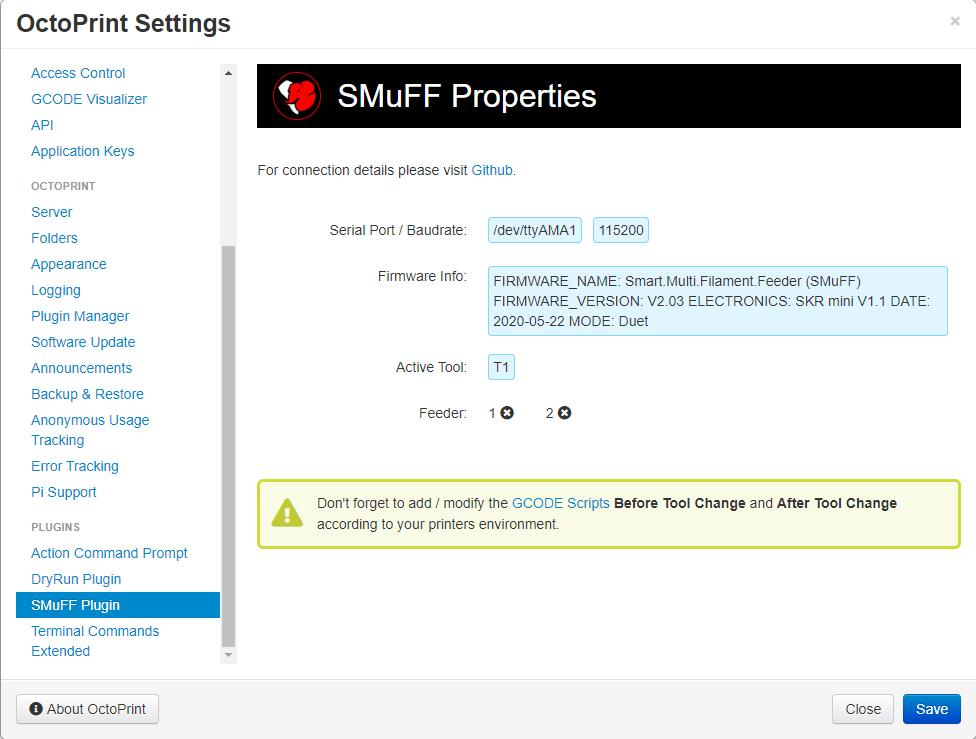
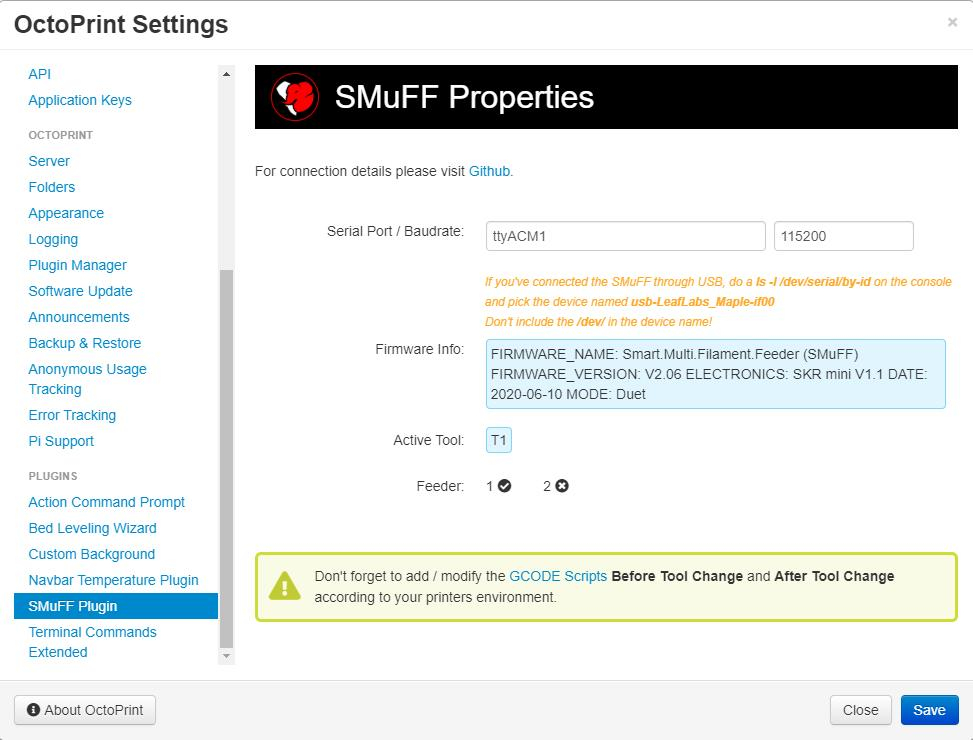
Udated to V1.1.4

diff --git a/octoprint_SMuFF/static/js/SMuFF.js b/octoprint_SMuFF/static/js/SMuFF.js
@@ -39,6 +39,10 @@ $(function() {
                 var _cls = message.feeder2 ? "fa fa-check-circle" : "fa fa-times-circle";
                 $('#SMuFF_setting_feeder2').prop('class', _cls);
             }
+            if(message.fw_info != null) {
+                // console.log(" fw info: " + message.fw_info);
+                $('#SMuFF_setting_firmware').text(message.fw_info);
+            }
         };
     }
 

diff --git a/octoprint_SMuFF/static/css/SMuFF.css b/octoprint_SMuFF/static/css/SMuFF.css
@@ -69,3 +69,10 @@
 .ml-1 {
     margin-left: 1em;
 }
+
+.serial-hint {
+    font-size: 9pt;
+    font-style: italic;
+    margin-left: 230px;
+    color: #FFA726;
+}

diff --git a/octoprint_SMuFF/__init__.py b/octoprint_SMuFF/__init__.py
@@ -20,7 +20,7 @@ import binascii
 # change the baudrate and port here if you have to
 # this might move into the settings some day
 SERBAUD		= 115200
-SERDEVS		= [ "ttyS0", "ttyAMA1" ]
+SERDEVS		= [ "ttyS0", "ttyAMA1", "ttyUSB1", "ttyACM0" ]
 
 SERDEV		= ""	# will be initialized later on
 AT_SMUFF 	= "@SMuFF"
@@ -84,7 +84,17 @@ class SmuffPlugin(octoprint.plugin.SettingsPlugin,
 	##~~ StartupPlugin mixin
 
 	def on_after_startup(self):
-		# nothing to do here yet...
+		port = self._settings.get(["tty"])
+		baud = self._settings.get_int(["baudrate"])
+		self._logger.debug("Opening serial {0} with {1}".format(port, baud))
+		if open_SMuFF_serial(port, baud):
+			self._serial = __ser0__
+			start_reader_thread()
+
+		# request firmware info from SMuFF 
+		if self._serial.is_open:
+			self._fw_info = self.send_SMuFF_and_wait(M115)
+			self._logger.debug("FW-Info: {}".format(self._fw_info))
 		pass
 
 	##~~ EventHandler mixin
@@ -103,7 +113,7 @@ class SmuffPlugin(octoprint.plugin.SettingsPlugin,
 		params = dict(
 			firmware_info	= "No data. Please check connection!",
 			baudrate	= SERBAUD,
-			tty 		= "Not found. Please enable the UART on your Raspi!",
+			tty 		= SERDEV,
 			tool		= self._cur_tool,
 			selector_end	= self._selector,
 			revolver_end	= self._revolver,
@@ -112,23 +122,32 @@ class SmuffPlugin(octoprint.plugin.SettingsPlugin,
 		)
 
 		# look up the serial port driver
-		if sys.platform == "win32":
-			if SERDEV.startswith("tty"):
-				params['tty'] = "Wrong device on WIN32 ({})".format(SERDEV)
-			else:
-				params['tty'] = SERDEV
-		else:
-			drvr = self.find_file(SERDEV, "/dev")
-			if len(drvr) > 0:
-				params['tty'] = "/dev/{}".format(SERDEV)
-
-		# request firmware info from SMuFF 
-		if self._serial.is_open:
-			self._fw_info = self.send_SMuFF_and_wait(M115)
-			if self._fw_info:
-				params['firmware_info'] = self._fw_info
+		#if sys.platform == "win32":
+		#	if SERDEV.startswith("tty"):
+		#		params['tty'] = "Wrong device on WIN32 ({})".format(SERDEV)
+		#	else:
+		#		params['tty'] = SERDEV
+		#else:
+		#	drvr = self.find_file(SERDEV, "/dev")
+		#	if len(drvr) > 0:
+		#		params['tty'] = "/dev/{}".format(SERDEV)
 
 		return  params
+	
+	def on_settings_save(self, data):
+		global __ser0__
+		baud = self._settings.get_int(["baudrate"])
+		port = self._settings.get(["tty"])
+		octoprint.plugin.SettingsPlugin.on_settings_save(self, data)
+		baud_new = self._settings.get_int(["baudrate"])
+		port_new = self._settings.get(["tty"])
+		self._logger.debug("Settings saved: {0}/{1}  {2}/{3}".format(baud, baud_new, port, port_new))
+		# did the settings change?
+		if not port_new == port or not baud_new == baud:
+			close_SMuFF_serial()
+			open_SMuFF_serial(port_new, baud_new)
+			self._serial = __ser0__
+			start_reader_thread()
 
 	def get_template_configs(self):
 		# self._logger.debug("Settings-Template was requested")
@@ -412,10 +431,11 @@ class SmuffPlugin(octoprint.plugin.SettingsPlugin,
 			self._feeder 	= m.group(11).strip() == ESTOP_ON
 			self._feeder2  	= m.group(13).strip() == ESTOP_ON
 			if hasattr(self, "_plugin_manager"):
-				self._plugin_manager.send_plugin_message(self._identifier, {'type': 'status', 'tool': self._cur_tool, 'feeder': self._feeder, 'feeder2': self._feeder2 })
+				self._plugin_manager.send_plugin_message(self._identifier, {'type': 'status', 'tool': self._cur_tool, 'feeder': self._feeder, 'feeder2': self._feeder2, 'fw_info': self._fw_info })
 			return True
 		else:
-			self._logger.error("No match in parse_states: [" + states + "]")
+ 			if hasattr(self, "_logger"):
+	 			self._logger.error("No match in parse_states: [" + states + "]")
 		return False
 
 	def parse_tool_number(self, tool):
@@ -506,26 +526,20 @@ class SmuffPlugin(octoprint.plugin.SettingsPlugin,
 		self._logger.debug("Received response: [{0}]".format(last_response))
 
 
-def open_SMuFF_serial():
+def open_SMuFF_serial(port, baudrate):
 	global __stop_ser__
 	global __ser0__
-	global SERDEV
 
 	_logger = logging.getLogger(LOGGER)
 	__stop_ser__ = False
 
-	SERDEV = SERDEVS[0]			# default is ttyS0
-	mod = get_pi_model()		# query current model
-	if mod == 4:
-		SERDEV = SERDEVS[1]		# switch to ttyAMA1 on Pi 4
-
 	try:
-		__ser0__ = serial.Serial("/dev/{}".format(SERDEV), baudrate=SERBAUD, timeout=10)
-		_logger.debug("Serial port /dev/{} is open".format(SERDEV))
+		__ser0__ = serial.Serial("/dev/{}".format(port), baudrate, timeout=10)
+		_logger.debug("Serial port /dev/{} is open".format(port))
 	except (OSError, serial.SerialException):
 		exc_type, exc_value, exc_traceback = sys.exc_info()
 		tb = traceback.format_exception(exc_type, exc_value, exc_traceback)
-		_logger.error("Can't open serial port /dev/{0}! Exc: {1}".format(SERDEV, tb))
+		_logger.error("Can't open serial port /dev/{0}! Exc: {1}".format(port, tb))
 		return False
 	return True
 
@@ -602,6 +616,24 @@ def get_pi_model():
 		model = 3
 	return model
 
+def start_reader_thread():
+	global __ser0__
+	global _logger
+	global __lock__
+	global __sreader__
+	global __plugin_implementation__
+	try:
+		# set up a separate task for reading the incoming SMuFF messages
+		__sreader__ = Thread(target = serial_reader, args=( _logger, __ser0__, __plugin_implementation__, __lock__, ))
+		__sreader__.daemon = True
+		__sreader__.start()
+		#_logger.debug("P={}".format(__sreader__))
+	except:
+		exc_type, exc_value, exc_traceback = sys.exc_info()
+		tb = traceback.format_exception(exc_type, exc_value, exc_traceback)
+		_logger.error("Unable to start serial reader thread: ".join(tb))
+
+
 __plugin_name__ = "SMuFF Plugin"
 __plugin_pythoncompat__ = ">=3,<4"
 
@@ -610,30 +642,19 @@ def __plugin_load__():
 	global __plugin_implementation__
 	global __plugin_hooks__
 	global __ser0__
-	global __stop_ser__
-	global __sreader__
 	global __lock__
-	global __event__
 	global _logger
+	global SERDEV
 
 	_logger = logging.getLogger(LOGGER)
 	__lock__ = Lock()
 
 	__plugin_implementation__ = SmuffPlugin(_logger, __lock__)
 
-	if open_SMuFF_serial():
-		__plugin_implementation__._serial = __ser0__
-		try:
-			# set up a separate task for reading the incoming SMuFF messages
-			__sreader__ = Thread(target = serial_reader, args=( _logger, __ser0__, __plugin_implementation__, __lock__, ))
-			__sreader__.daemon = True
-			__sreader__.start()
-			#_logger.debug("P={}".format(__sreader__))
-
-		except:
-			exc_type, exc_value, exc_traceback = sys.exc_info()
-			tb = traceback.format_exception(exc_type, exc_value, exc_traceback)
-			_logger.error("Unable to start serial reader thread: ".join(tb))
+	SERDEV = SERDEVS[0]			# default is ttyS0
+	mod = get_pi_model()		# query current model
+	if mod == 4:
+		SERDEV = SERDEVS[1]		# switch to ttyAMA1 on Pi 4
 
 	__plugin_hooks__ = {
 		"octoprint.comm.protocol.gcode.received":	__plugin_implementation__.extend_gcode_received,

diff --git a/setup.py b/setup.py
@@ -14,7 +14,7 @@ plugin_package = "octoprint_SMuFF"
 plugin_name = "OctoPrint-Smuff"
 
 # The plugin's version. Can be overwritten within OctoPrint's internal data via __plugin_version__ in the plugin module
-plugin_version = "1.1.3"
+plugin_version = "1.1.4"
 
 # The plugin's description. Can be overwritten within OctoPrint's internal data via __plugin_description__ in the plugin
 # module

diff --git a/README.md b/README.md
@@ -59,15 +59,20 @@ All necessary operations for a tool change (i.e. unloading current filament, loa
 ## Configuration
 
 There's not much configuration going on here, since the only relevant paramters are the baudrate and the serial port used to connect the Raspberry Pi to the SMuFF.
-The baudrate has been set constantly to **115200 baud**, which ought to be fast enough.
-If you have to change the baudrate or the port, you'll have to modify it within the __init__.py source file at the very top.
+The baudrate has been set preset to **115200 baud**, which ought to be fast enough.
+Though, if you have to change the baudrate or the port, enter the device name (without the '/dev/') and the baudrate. Also, if you change the baudrate here, please make sure you change it in the SMuFF accordingly.
 
-As you open the **Settings** dialog for the plugin, you'll be provided with some information whether or not the plugin was able to connect to the SMuFF. If the connection was sucessful, you'll see the firmware information coming directly from the SMuFF.
-If you don't see the firmware info here, you'll need to check your physical connection.
+As you open the **Settings** dialog for the plugin, you'll be provided with some information whether or not the plugin was able to connect to the SMuFF. If the connection was sucessful, you'll see the firmware information coming directly from the SMuFF. You'll also see the currently active tool and the status of the Feeder endstops (up to 2 possible, usually only one is being used).
+If you don't see the information here, you'll need to check either your settings or your physical connection.
 
 ![OctoPrint SMuFF plugin](extras/Settings-Screen.jpg)
 
-Also, there's an indicator in the navbar of OctoPrint, showing you which tool is currently selected and whether or not filament has been loaded (i.e. Feeder endstop has triggered). Please notice, that the navbar indicator is being updated frequently.
+**Please notice:** The plugin will preset the serial interface device differently, depending on the Raspberry Pi model you uses. It's **ttyS0** on the Raspi 3 and **ttyAMA1** on the Raspi 4, both are direct UART connections on the GIO header mentioned above.
+From SMuFF firmware version 2.06 on you'll also be able to connect via the USB connector of the Raspberry to the USB connector of the SKR mini V1.1,  which in most cases is easier to set up and also more reliable.
+To figure out which device name you have to put into the plugins settings in this case, open up a console (SSH) to your Raspberry Pi after you've connected the SMuFF and enter the command **ls -l /dev/serial/by-id**. The Raspbery is supposed to show a device named **usb-LeafLabs_Maple_ifxx** and the **/dev/tty** device it's linked to (something like *ttyACM0* or *ttyACM1* on the Raspi3, *ttyUSB1* on the Raspi 4).
+Use the device name after the **/dev/** in the SMuFF plugin settings.
+
+There's also an indicator in the navbar of OctoPrint showing you, which tool is currently selected and whether or not filament has been loaded (i.e. Feeder endstop has triggered). Please notice, that the navbar indicator is being updated frequently (aprox. every 2 seconds).
 
 ![OctoPrint SMuFF plugin Navbar](extras/Navbar.jpg)
 
@@ -89,21 +94,61 @@ Needless to say that you have to adopt these scripts (bowden length, hotend leng
     G60 S1				; save current positions (must be enabled in the FW)
     M83				; set extruder to relative mode (important)
     G1 E-5 F5000			; retract 5 mm to avoid oozing
+    ;-------------------------------------------
+    ; Raising the Z-Axis may cause offset issues when it
+    ; goes back due to backlash on the Z-Axis. If this 
+    ; happens to you, delete the G91 - G1 - G90 lines
+    ;-------------------------------------------
     G91				; switch to relative positioning
     G1 Z15 F8000			; lift nozzle
     G90				; switch back to absolute positioning
     G1 X0 Y0 F15000			; move to change position
     M83				; set extruder to relative mode (important)
     ;-------------------------------------------
-    ; the next two lines must match your setup
-    ; that's bowden length (500) + hotend length (45), 
+    ; Next up is the Marlin 2.0 MMU Ramming Sequence 
+    ; which I shamlessly nicked from Marlin.
+    ;
+    ; I don't know who wrote this sequence but hats off to
+    ; you Sir, for your enourmus effort and patience composing
+    ; this sequence.
+    ;
+    ; This sequence proofed to shape the tip nearly perfect 
+    ; before the filament gets retracted finally.
+    ; This is an important step, because it definitely reduces
+    ; the filament bulging and therefore reduces potenitial jams
+    ; when swapping filaments!
+    ; 
+    ; So, don't discard these lines. If the filament tip doesn't
+    ; seem shaped well enough for you, try playing with the
+    ; nozzle temperatures before you mess with the sequence.
+    ; Just a few degrees (5-10) up or down can make a huge
+    ; difference.
+    ;
+    ; This sequence retracts 77 mm in total - take this into account
+    ; for the rest that needs to be retracted. For example the E3D V6 
+    ; hotend has round about 61 mm (75-80 with fitting), whereas
+    ; the PTFE tube goes about 33 mm into the hotend, using a all metal
+    ; heat break.
+    ;-------------------------------------------
+    G1 E1 F1000
+    G1 E1 F1500
+    G1 E2 F2000
+    G1 E1.5 F3000
+    G1 E2.5 F4000
+    G1 E-15 F4500
+    G1 E-14 F1200
+    G1 E-6  F600
+    G1 E10  F700
+    G1 E-10 F400
+    G1 E-50 F2000
+    ;-------------------------------------------
+    ; the next retracts must match your setup
+    ; that's bowden length + hotend length + 
     ; SMuFF selector width (90)
     ;-------------------------------------------
-    G1 E-45 F5000 	; Retract from nozzle
-    G1 E-255 F4000	; Retract filament according to your bowden length
-    G1 E-240 F4000	; Retract filament according to your bowden length
-    G1 E-65 F1200	; Retract from selector (slowly)
-
+    G1 E-485 F4000	; Retract filament according to your bowden length
+    G4 S2			; wait 2 seconds (just for you to see where it ends)
+    G1 E-90 F1200	; Retract from selector (slowly)
     M400		; wait for move to complete
     ;-------------------------------------------
     ; the next line is important and must not be removed!
@@ -123,10 +168,10 @@ Needless to say that you have to adopt these scripts (bowden length, hotend leng
     ; use the next line only if you're not 
     ; printing with a purge tower!
     ;-------------------------------------------
-    ;G1 E100 F240	; Purge out old filament
+    ;G1 E80 F240	; Purge out old filament (adopt the E value to your needs)
 
     M400			; wait for move to finish
-    G61 S1 XYZ F2400	; restore saved positions (must be enabled in the FW)
+    G61 S1 XYZ F3600	; restore saved positions (must be enabled in the FW)
 
 The values for feed and retraction here apply to a bowden tube length of about 520 mm, which is feasible for the Ender 3, whereas the SmuFF was mounted on the top bar. The 45 mm for the hotend reflect the Ender 3s stock hotend. Remember that you have to adopt these values according to your printer setup. You can adjust those settings with the following step.
 
